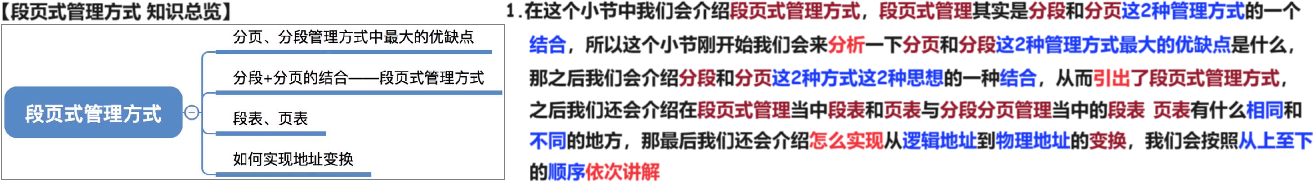
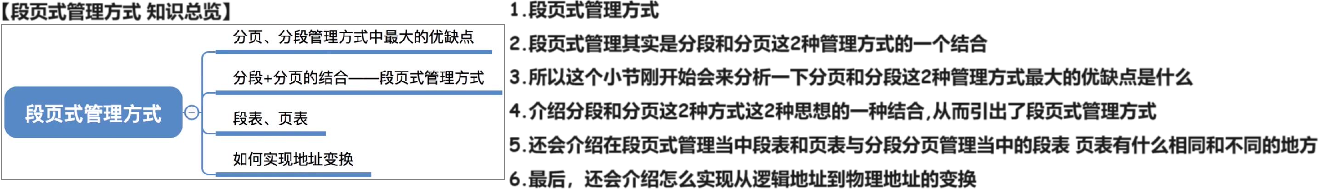
240629

diff --git a/01 初试/01 OS/02 24 25 王道/01 基础/03 内存管理/01 内存管理 概念/12 段页式管理方式 240629/02 消化/02 Doc.md b/01 初试/01 OS/02 24 25 王道/01 基础/03 内存管理/01 内存管理 概念/12 段页式管理方式 240629/02 消化/02 Doc.md
@@ -4,13 +4,13 @@
 
 # 01 段页式管理方式 知识总览
 
-<img src="https://cvp.oss-cn-shanghai.aliyuncs.com/picgo/202405160907946.png" alt="image-20240516090752841" style="zoom:50%;" />
+<img src="https://cvp.oss-cn-shanghai.aliyuncs.com/picgo/202406291124501.png" alt="image-20240629112428405" style="zoom:50%;" />
 
 
 
 # 02 分页 分段 优缺点分析
 
-<img src="https://cvp.oss-cn-shanghai.aliyuncs.com/picgo/202405160936119.png" alt="image-20240516093645925" style="zoom:50%;" />
+
 
 
 
